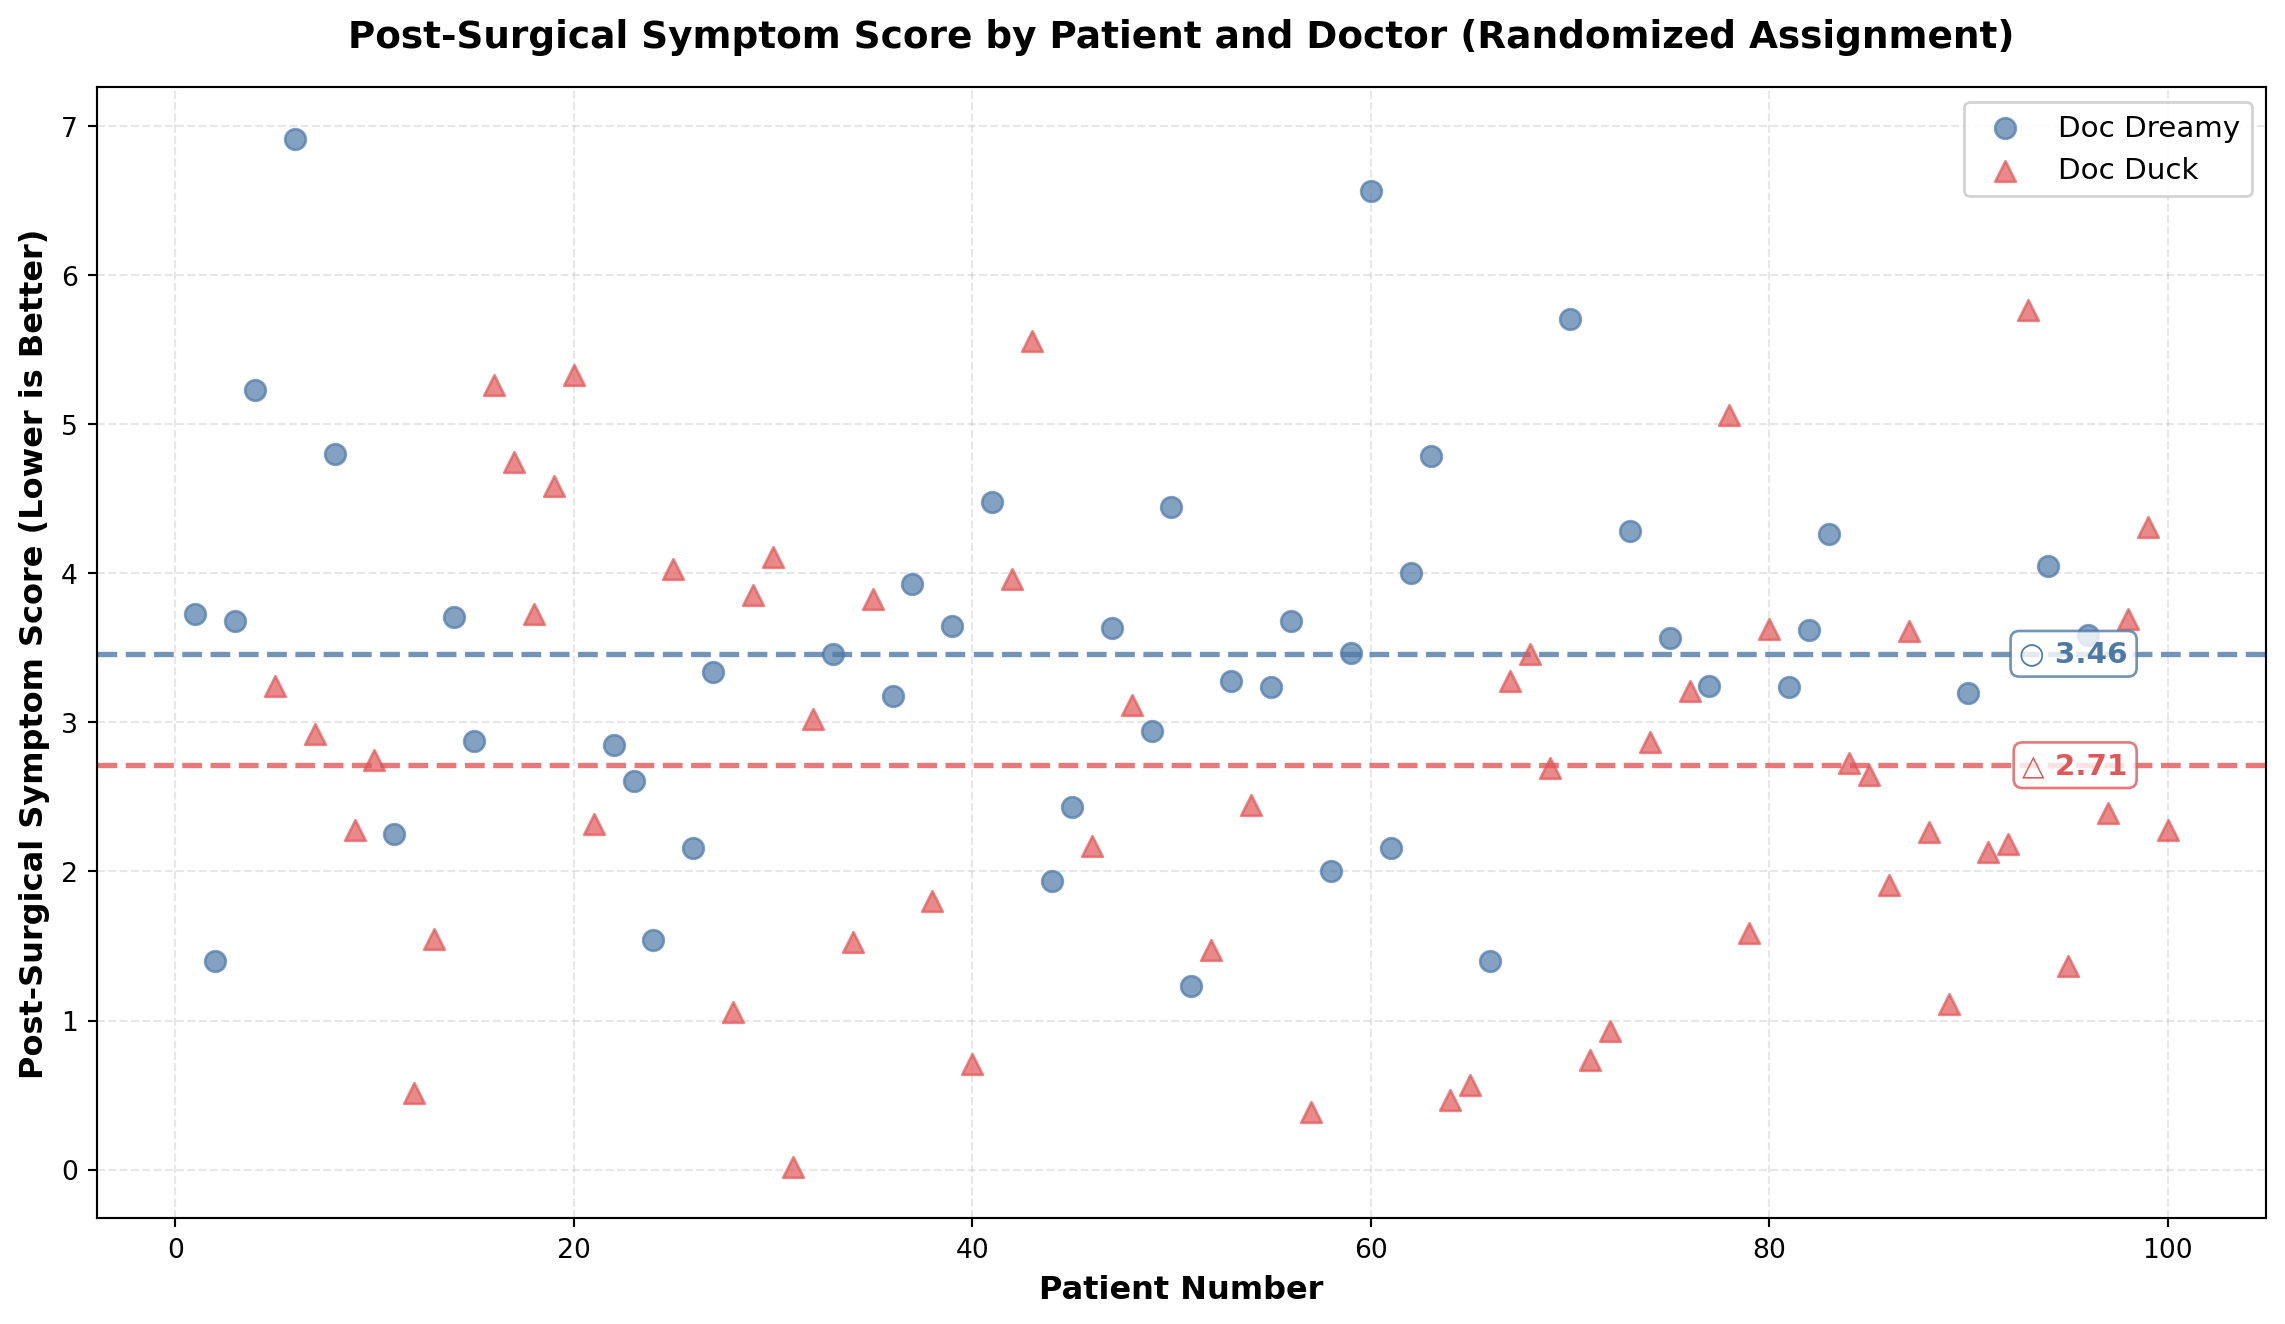
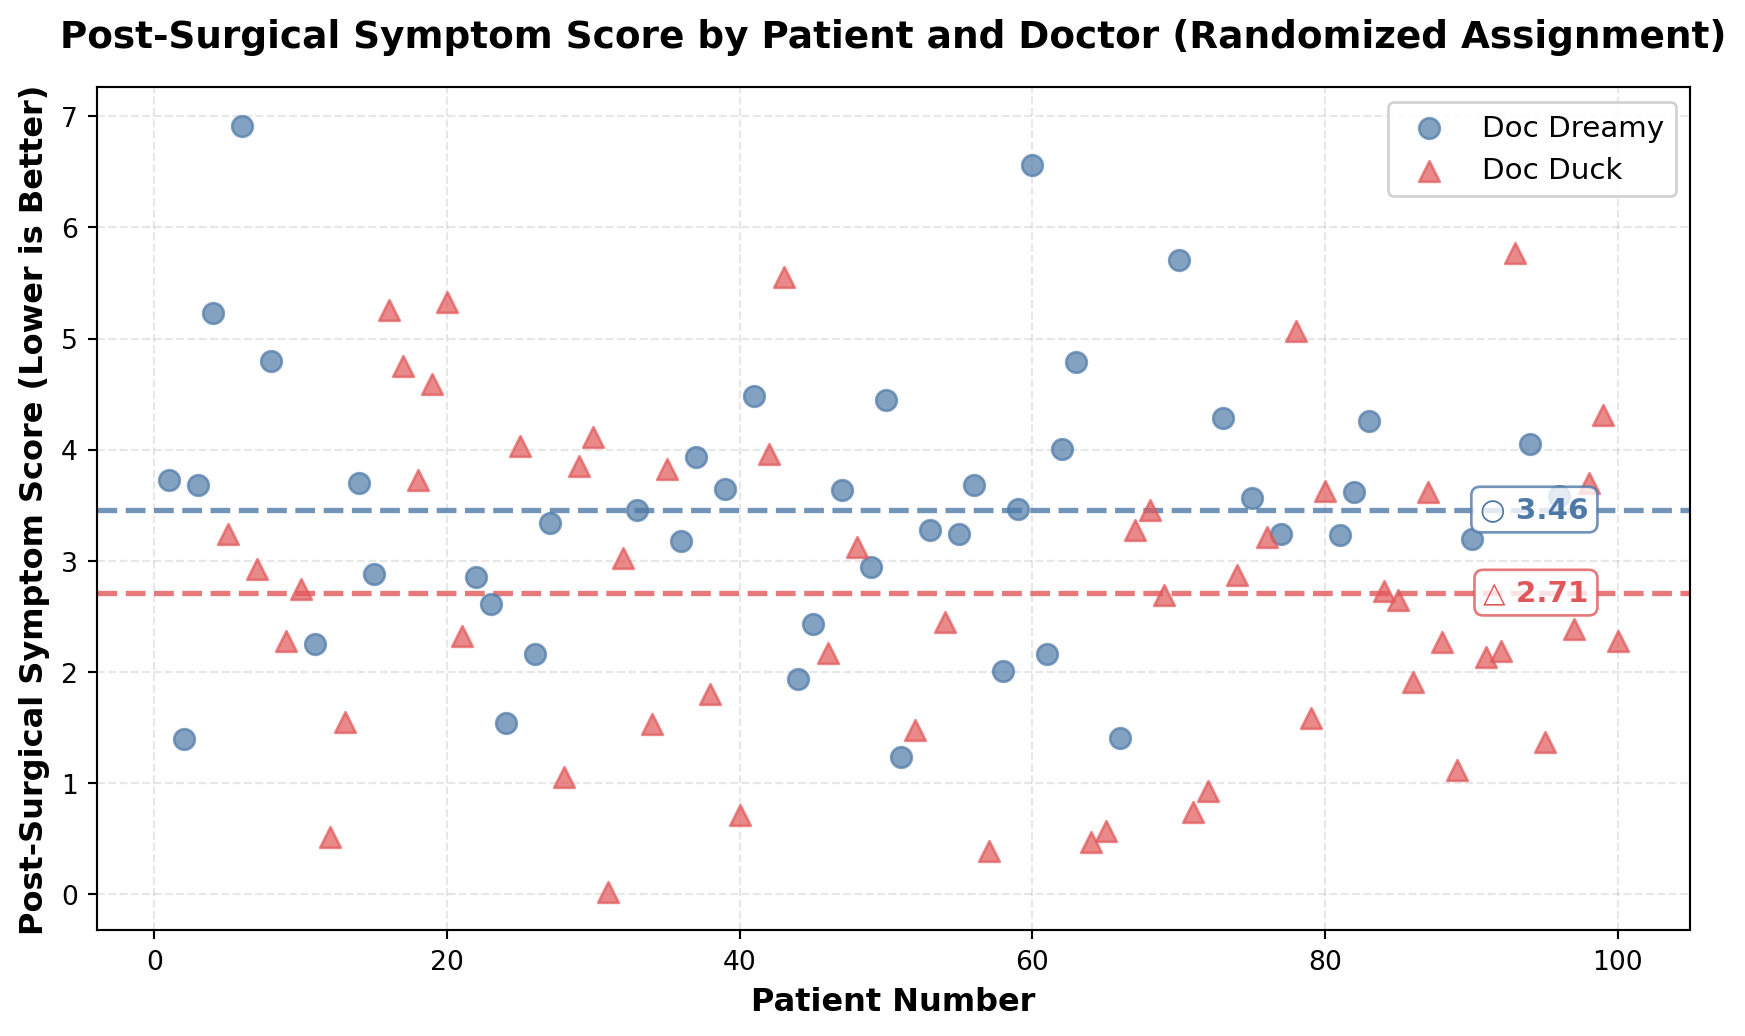
Update6

diff --git a/index.html b/index.html
@@ -7,7 +7,7 @@
 <meta name="viewport" content="width=device-width, initial-scale=1.0, user-scalable=yes">
 
 
-<title>Confounder &amp; Randomization Challenge</title>
+<title>Using Randomization &amp; Stratification to Overcome A Common Cause Confounder</title>
 <style>
 code{white-space: pre-wrap;}
 span.smallcaps{font-variant: small-caps;}
@@ -99,7 +99,7 @@ window.Quarto = {
 
 <header id="title-block-header" class="quarto-title-block default">
 <div class="quarto-title">
-<h1 class="title">Confounder &amp; Randomization Challenge</h1>
+<h1 class="title">Using Randomization &amp; Stratification to Overcome A Common Cause Confounder</h1>
 <p class="subtitle lead">Recovering Lost Figures: Visualizing Confounders and Causal Inference</p>
 </div>
 
@@ -123,7 +123,7 @@ window.Quarto = {
 <i class="callout-icon"></i>
 </div>
 <div class="callout-title-container flex-fill">
-<span class="screen-reader-only">Important</span>📋 The Challenge: Recover the Lost Figures!
+<span class="screen-reader-only">Important</span>📋 Recover the Lost Figures!
 </div>
 </div>
 <div class="callout-body-container callout-body">
@@ -249,8 +249,8 @@ window.Quarto = {
 </div>
 </div>
 <p>Let’s use data to figure out which surgeon performs better. <a href="#fig-plot-outcomes" class="quarto-xref">Figure&nbsp;1</a> shows the post-surgical symptom score for 100 patients. Doc Duck’s average post-surgical symptom score is 3.38 while Doc Dreamy’s average is 2.8. Doc Dreamy performs better since lower scores indicate better outcomes. One might ask if the difference in average post-surgical symptom score is statistically significant. A two-sample t-test reveals a statistically significant difference (t = -2.317, p = 0.023).</p>
-<section id="challenge-task-1-recover-figure-1-post-surgical-outcomes-by-patient" class="level3">
-<h3 class="anchored" data-anchor-id="challenge-task-1-recover-figure-1-post-surgical-outcomes-by-patient">Challenge Task 1: Recover Figure 1 — Post-Surgical Outcomes by Patient</h3>
+<section id="post-surgical-outcomes-by-patient" class="level3">
+<h3 class="anchored" data-anchor-id="post-surgical-outcomes-by-patient">Post-Surgical Outcomes by Patient</h3>
 <p><strong>Your task:</strong> Create a scatter plot showing post-surgical symptom scores by patient number, with different markers/colors for each doctor. The figure should include:</p>
 <ul>
 <li>Scatter points for each patient (Doc Dreamy: circles, Doc Duck: triangles)</li>
@@ -271,7 +271,7 @@ window.Quarto = {
 <div id="fig-plot-outcomes" class="quarto-float quarto-figure quarto-figure-center anchored">
 <figure class="quarto-float quarto-float-fig figure">
 <div aria-describedby="fig-plot-outcomes-caption-0ceaefa1-69ba-4598-a22c-09a6ac19f8ca">
-<img src="index_files/figure-html/fig-plot-outcomes-output-1.png" width="1143" height="662" class="figure-img">
+<img src="index_files/figure-html/fig-plot-outcomes-output-1.png" width="855" height="518" class="figure-img">
 </div>
 <figcaption class="quarto-float-caption-bottom quarto-float-caption quarto-float-fig" id="fig-plot-outcomes-caption-0ceaefa1-69ba-4598-a22c-09a6ac19f8ca">
 Figure&nbsp;1: Post-Surgical Symptom Score (lower is better) - Observed Data
@@ -433,8 +433,8 @@ Figure&nbsp;4: DAG Model Explaining Surgical Outcomes
 </div>
 <p><a href="#fig-plot-outcomes-randomized" class="quarto-xref">Figure&nbsp;5</a> shows the post-surgical symptom score for 100 patients under randomized assignment. Doc Duck’s average post-surgical symptom score is 2.71 while Doc Dreamy’s average is 3.46. Doc Duck performs better since lower scores indicate better outcomes. With randomization breaking the confounding relationship, we can now properly assess the causal effect. A two-sample t-test reveals a statistically significant difference (t = 2.734, p = 0.007). <strong>Not only is Dr.&nbsp;Dreamy not the better surgeon, he is actually the worse surgeon!</strong></p>
 </section>
-<section id="challenge-task-2-recover-figure-2-randomized-assignment-outcomes" class="level3">
-<h3 class="anchored" data-anchor-id="challenge-task-2-recover-figure-2-randomized-assignment-outcomes">Challenge Task 2: Recover Figure 2 — Randomized Assignment Outcomes</h3>
+<section id="randomized-assignment-outcomes" class="level3">
+<h3 class="anchored" data-anchor-id="randomized-assignment-outcomes">Randomized Assignment Outcomes</h3>
 <p><strong>Your task:</strong> Create a scatter plot similar to Figure 1, but for the randomized data. The figure should show how randomization breaks the confounding relationship. Include:</p>
 <ul>
 <li>Same styling as Figure 1 (markers, colors, mean lines, annotations)</li>
@@ -451,7 +451,7 @@ Figure&nbsp;4: DAG Model Explaining Surgical Outcomes
 <div id="fig-plot-outcomes-randomized" class="quarto-float quarto-figure quarto-figure-center anchored">
 <figure class="quarto-float quarto-float-fig figure">
 <div aria-describedby="fig-plot-outcomes-randomized-caption-0ceaefa1-69ba-4598-a22c-09a6ac19f8ca">
-<img src="index_files/figure-html/fig-plot-outcomes-randomized-output-1.png" width="1143" height="662" class="figure-img">
+<img src="index_files/figure-html/fig-plot-outcomes-randomized-output-1.png" width="873" height="518" class="figure-img">
 </div>
 <figcaption class="quarto-float-caption-bottom quarto-float-caption quarto-float-fig" id="fig-plot-outcomes-randomized-caption-0ceaefa1-69ba-4598-a22c-09a6ac19f8ca">
 Figure&nbsp;5: Post-Surgical Symptom Score (lower is better) for randomized patients.
@@ -468,8 +468,8 @@ Figure&nbsp;5: Post-Surgical Symptom Score (lower is better) for randomized pati
 <section id="solution-2-stratification-when-you-cant-randomize" class="level2">
 <h2 class="anchored" data-anchor-id="solution-2-stratification-when-you-cant-randomize">Solution 2: Stratification — When You Can’t Randomize</h2>
 <p>The key to handling a common cause confounder is to stratify by the common cause. In general, this means we examine the relationship between treatment and outcome within groups that share the same value of the confounder. In our example, this means we look at patients of similar severity and compare the outcomes of the surgeons for patients of similar severity. There are mathematically sophisticated ways to do this, but here we demonstrate it visually. Since patient number lacks inherent meaning, the following figure shows patient severity on the x-axis and post-surgical symptom score on the y-axis.</p>
-<section id="challenge-task-3-recover-figure-3-outcomes-by-patient-severity-stratification" class="level3">
-<h3 class="anchored" data-anchor-id="challenge-task-3-recover-figure-3-outcomes-by-patient-severity-stratification">Challenge Task 3: Recover Figure 3 — Outcomes by Patient Severity (Stratification)</h3>
+<section id="outcomes-by-patient-severity-stratification" class="level3">
+<h3 class="anchored" data-anchor-id="outcomes-by-patient-severity-stratification">Outcomes by Patient Severity (Stratification)</h3>
 <p><strong>Your task:</strong> Create a scatter plot showing post-surgical outcomes as a function of initial patient severity. This figure demonstrates the power of stratification. Include:</p>
 <ul>
 <li>X-axis: Initial Patient Severity</li>
@@ -490,7 +490,7 @@ Figure&nbsp;5: Post-Surgical Symptom Score (lower is better) for randomized pati
 <div id="fig-plot-outcomes-severity" class="quarto-float quarto-figure quarto-figure-center anchored">
 <figure class="quarto-float quarto-float-fig figure">
 <div aria-describedby="fig-plot-outcomes-severity-caption-0ceaefa1-69ba-4598-a22c-09a6ac19f8ca">
-<img src="index_files/figure-html/fig-plot-outcomes-severity-output-1.png" width="1143" height="662" class="figure-img">
+<img src="index_files/figure-html/fig-plot-outcomes-severity-output-1.png" width="855" height="518" class="figure-img">
 </div>
 <figcaption class="quarto-float-caption-bottom quarto-float-caption quarto-float-fig" id="fig-plot-outcomes-severity-caption-0ceaefa1-69ba-4598-a22c-09a6ac19f8ca">
 Figure&nbsp;6: Post-Surgical Symptom Score (lower is better) by Patient and Severity
@@ -514,48 +514,6 @@ Figure&nbsp;6: Post-Surgical Symptom Score (lower is better) by Patient and Seve
 <p>Randomization is an excellent defense against this kind of confounding. Flip a coin, assign patients randomly, and suddenly the puppeteer loses control. Now you can actually see who the better surgeon is. And the surprise is that it’s the one who doesn’t look the part. The data wasn’t lying; it was just answering a different question than you thought you were asking.</p>
 <p>If you can’t randomize, and that’s most of the time, you stratify. Look within groups of similar patient severity. Compare apples to apples, not apples to oranges. It’s more work, and it’s less satisfying than a clean randomized trial, but it’s better than being fooled by confounding.</p>
 <p>The take-home lesson: The world is messy, and the numbers will mislead you if you let them. But if you understand the structure of the problem, if you draw the DAG and think about what causes what, you can defend yourself against being fooled. Randomization when you can, stratification when you can’t. The tools are simple. The hard part is remembering to use them.</p>
-</section>
-<section id="professional-presentation-guidelines" class="level2">
-<h2 class="anchored" data-anchor-id="professional-presentation-guidelines">Professional Presentation Guidelines</h2>
-<ul>
-<li><strong>Clear narrative:</strong> Your figures should tell the story described in the text</li>
-<li><strong>Consistent styling:</strong> All three figures should use the same color scheme and styling approach</li>
-<li><strong>Colorblind-friendly:</strong> Use the specified colors (#4E79A7 for Doc Dreamy, #E15759 for Doc Duck)</li>
-<li><strong>Professional quality:</strong> Clear labels, appropriate fonts, grid lines, legends</li>
-<li><strong>Match the narrative:</strong> Your figures should illustrate the points made in the text about confounding, randomization, and stratification</li>
-</ul>
-</section>
-<section id="submission-checklist" class="level2">
-<h2 class="anchored" data-anchor-id="submission-checklist">Submission Checklist ✅</h2>
-<p><strong>For 85% (Base Grade):</strong></p>
-<ul class="task-list">
-<li><label><input type="checkbox">Fork the <code>confounderChallenge</code> repository</label></li>
-<li><label><input type="checkbox">Clone locally and open in Cursor</label></li>
-<li><label><input type="checkbox">Recover all three figures (Tasks 1-3)</label></li>
-<li><label><input type="checkbox">Ensure figures match the narrative descriptions</label></li>
-<li><label><input type="checkbox">Render to HTML (<code>quarto render</code> or Render button)</label></li>
-<li><label><input type="checkbox">Verify all figures render correctly</label></li>
-<li><label><input type="checkbox">Push HTML to your repo and enable GitHub Pages</label></li>
-<li><label><input type="checkbox">Share your site: <code>https://[your-username].github.io/confounderChallenge/</code></label></li>
-</ul>
-<p><strong>For Final 15% (Bonus - 100% Total):</strong></p>
-<ul class="task-list">
-<li><label><input type="checkbox">Remove all challenge-related comments from code (no “TODO”, “Challenge Task”, “Recover Figure”)</label></li>
-<li><label><input type="checkbox">Transform document title/subtitle to “Using Randomization &amp; Stratification to Overcome A Common Cause Confounder”</label></li>
-<li><label><input type="checkbox">Remove challenge framing sections (challenge callout, submission checklist, tips)</label></li>
-<li><label><input type="checkbox">Polish the document to read like a complete, professional report</label></li>
-<li><label><input type="checkbox">Ensure the narrative flows naturally without challenge references</label></li>
-</ul>
-</section>
-<section id="tips" class="level2">
-<h2 class="anchored" data-anchor-id="tips">Tips</h2>
-<ul>
-<li>Read the narrative carefully—it contains hints about what each figure should show</li>
-<li>Use the statistical results mentioned in the text to verify your figures are correct</li>
-<li>Keep styling consistent across all three figures</li>
-<li>Test with both R and Python code chunks if you want to show versatility</li>
-<li>Set random seeds if you’re doing any additional analysis for reproducibility</li>
-</ul>
 
 </section>
 
